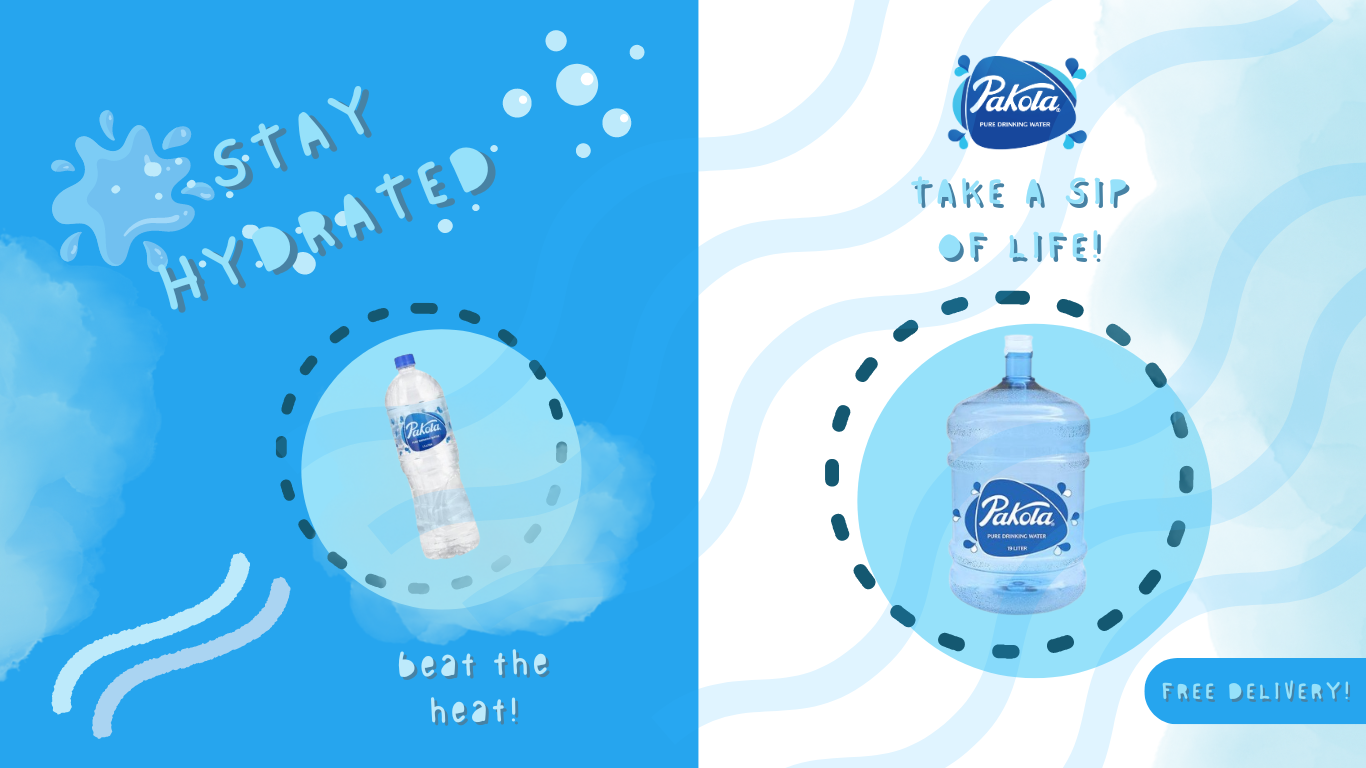
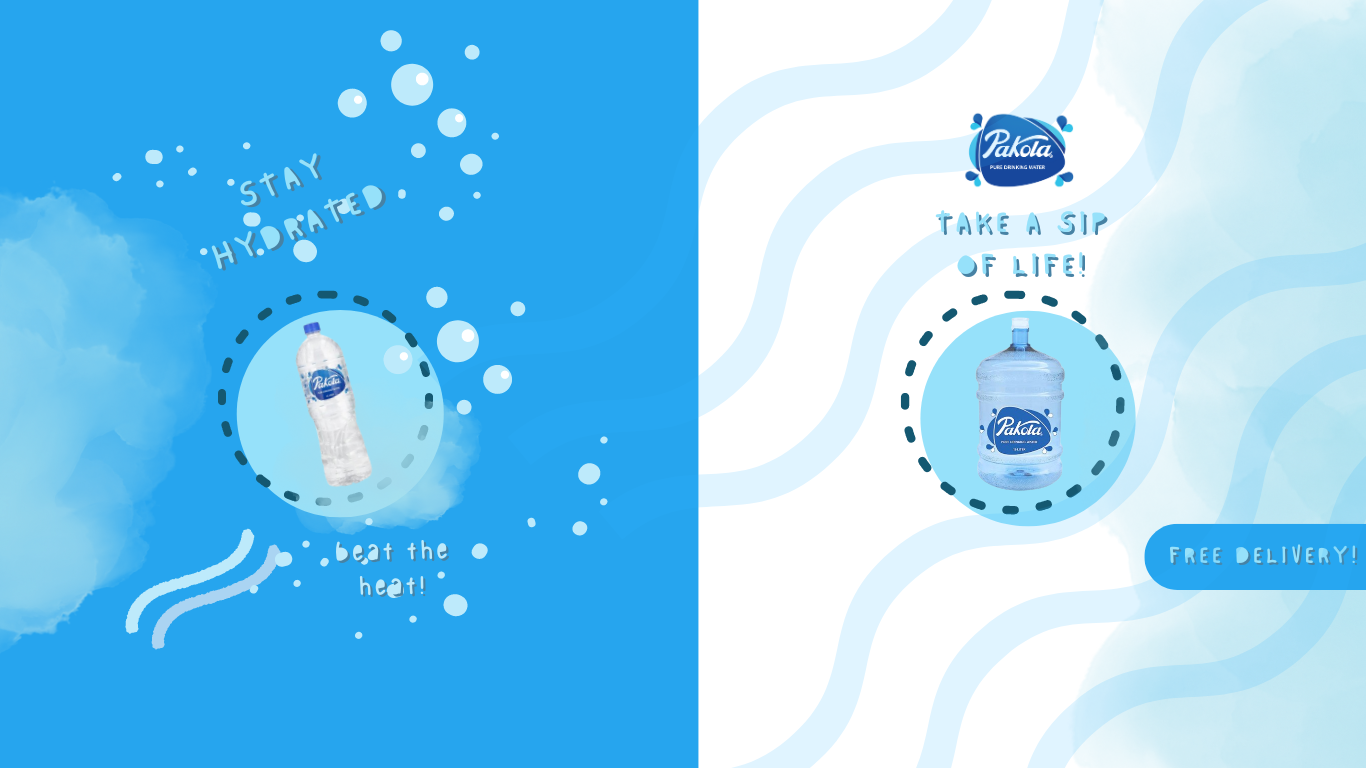
v1.1

diff --git a/style.css b/style.css
@@ -69,7 +69,7 @@ a:hover {
     background-repeat: no-repeat;
     background-size: cover;
     position: relative;
-    background-position: bottom;
+    background-position: center;
     height: 100vh;
 }
 
@@ -107,14 +107,22 @@ a:hover {
   height: 36vw;
 }
 
+.third-heading{
+  margin-bottom: 5vh;
+  width: 100%;
+  text-align: center;
+  font-size: 2.5rem;
+  color: #11532d;
+  font-weight: 600;
+}
 .third-page{
     background-image: url(images/water-ad.png);
     background-repeat: no-repeat;
-    background-size: cover;
+    background-size: 100%;
     position: relative;
     background-position: center;
     width: 78vw;
-    height: 60vh;
+    height: 70vh;
     left: 10vw;
 }
 

diff --git a/water.css b/water.css
@@ -2,8 +2,9 @@
 .water-poster{
     background-image: url(images/water-mainpage.png);
     background-repeat: no-repeat;
-    background-size: 100%;
+    background-size: cover;
     position: relative;
+    background-position: center;
     height: 120vh;
 }
 

diff --git a/index.html b/index.html
@@ -52,7 +52,11 @@
       </div>
     </div>
 
-    <div class="third-page"></div>
+    <div class="third-heading">Elevate Your Hydration</div>
+
+    <div class="third-page">
+      
+    </div>
 
     <footer class="footer">
       <div class="footer-logo">
